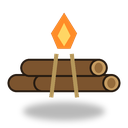
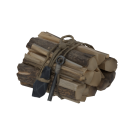
Improve campfire placement and restore player facing

diff --git a/client/src/lib/components/PlayerControl.svelte b/client/src/lib/components/PlayerControl.svelte
@@ -433,14 +433,28 @@
   }
 
   gameStore.subscribe((state) => {
+    const previousPlayerId = currentPlayer?.id ?? null
     currentPlayer = state.currentPlayer
-    if (currentPlayer) {
-      playerState.position = {
-        x: currentPlayer.position.x,
-        y: currentPlayer.position.y,
-        z: currentPlayer.position.z,
-      }
+    if (!currentPlayer) return
+
+    const position = {
+      x: currentPlayer.position.x,
+      y: currentPlayer.position.y,
+      z: currentPlayer.position.z,
     }
+    if (currentPlayer.id === previousPlayerId) {
+      playerState.position = position
+      return
+    }
+
+    playerRotation = currentPlayer.rotation
+    currentSpeed = 0
+    setPlayerState({
+      state: currentPlayer.health > 0 ? 'idle' : 'dead',
+      speed: 0,
+      rotation: currentPlayer.rotation,
+      position,
+    })
   })
 
   // Update player state and notify parent

diff --git a/server/src/game_state/inventory.rs b/server/src/game_state/inventory.rs
@@ -14,6 +14,8 @@ const GROUND_ITEM_LIFETIME_MS: u64 = 5 * 60 * 1000;
 
 const MAX_PICKUP_DISTANCE: f32 = 2.5;
 
+const CAMPFIRE_PLACEMENT_DISTANCE_M: f32 = 1.0;
+
 /// Enchant odds are expressed in basis points (1/100 of a percent) out of
 /// this scale; the handler's roll must use the same bound.
 const ENCHANT_BP_SCALE: u32 = 10_000;
@@ -623,8 +625,7 @@ impl super::GameState {
         }
     }
 
-    /// Use a campfire kit: light a fire at the player's feet. Overworld only,
-    /// and never in standing water (fishable depth = water).
+    /// Use a campfire kit outdoors and out of standing water.
     async fn use_campfire_kit(&self, player_id: &PlayerId, instance_id: u64) {
         if self
             .reject_if_defeated(player_id, "You can't build a fire while defeated")
@@ -632,21 +633,39 @@ impl super::GameState {
         {
             return;
         }
-        let (position, floor_level) = {
+        let (position, rotation, floor_level) = {
             let players = self.players.read().await;
             let Some(p) = players.get(player_id) else {
                 return;
             };
-            (p.position, p.floor_level)
+            (p.position, p.rotation, p.floor_level)
         };
         if floor_level != super::fishing::OVERWORLD_FLOOR {
             self.send_system_message(player_id, "You can only build a campfire outdoors")
                 .await;
             return;
         }
-        let wx = onlinerpg_shared::wrap_world_x(position.x);
+        let forward = crate::types::Position {
+            x: position.x + rotation.sin() * CAMPFIRE_PLACEMENT_DISTANCE_M,
+            y: position.y,
+            z: position.z + rotation.cos() * CAMPFIRE_PLACEMENT_DISTANCE_M,
+        };
+        let placement = {
+            let cache = self.passability_read();
+            let floor = super::passability::authoritative_floor(&cache, &position);
+            if super::passability::wrapped_block_info(
+                &cache, position.x, position.z, forward.x, forward.z, floor, position.y,
+            )
+            .is_some()
+            {
+                position
+            } else {
+                forward.wrapped_x()
+            }
+        };
+        let wx = onlinerpg_shared::wrap_world_x(placement.x);
         let in_water = self
-            .water_depth_at(wx, position.z)
+            .water_depth_at(wx, placement.z)
             .await
             .is_some_and(|depth| depth > onlinerpg_shared::fishing::MIN_FISHABLE_DEPTH_M);
         if in_water {
@@ -656,7 +675,7 @@ impl super::GameState {
         }
 
         self.consume_one_and_sync(player_id, instance_id).await;
-        self.spawn_campfire(position, floor_level).await;
+        self.spawn_campfire(placement, floor_level).await;
         self.send_system_message(player_id, "You light a campfire.")
             .await;
     }

diff --git a/server/src/game_state/tests/hunger_tests.rs b/server/src/game_state/tests/hunger_tests.rs
@@ -344,11 +344,51 @@ async fn using_a_campfire_kit_lights_a_fire_on_land() {
 
     game_state.use_item(&id, 1).await;
 
-    assert_eq!(game_state.campfires.read().await.len(), 1);
+    let position = {
+        let campfires = game_state.campfires.read().await;
+        assert_eq!(campfires.len(), 1);
+        campfires.values().next().unwrap().campfire.position
+    };
+    assert_eq!(
+        position,
+        Position {
+            x: 100.0,
+            y: 0.0,
+            z: 51.0,
+        }
+    );
     assert!(bag_ids(&game_state, &id).await.is_empty(), "kit consumed");
     assert!(drain(&mut rx)
         .iter()
         .any(|m| matches!(m, ServerMessage::CampfireSpawned { .. })));
+}
+
+#[tokio::test]
+async fn campfire_placement_falls_back_to_the_player_when_blocked() {
+    let game_state = make_test_game_state("kit_blocked");
+    let (id, _rx) = make_eater(&game_state, "blocked_scout", 500).await;
+    put_in_bag(&game_state, &id, 1, "campfire_kit").await;
+    game_state.sync_region_furniture(0, 0, &[table_placement(100.5, 51.5)]);
+
+    game_state.use_item(&id, 1).await;
+
+    let position = game_state
+        .campfires
+        .read()
+        .await
+        .values()
+        .next()
+        .unwrap()
+        .campfire
+        .position;
+    assert_eq!(
+        position,
+        Position {
+            x: 100.0,
+            y: 0.0,
+            z: 50.0,
+        }
+    );
 }
 
 #[tokio::test]

diff --git a/server/src/game_state/hunger.rs b/server/src/game_state/hunger.rs
@@ -255,7 +255,7 @@ impl super::GameState {
             .map(|(id, _)| id)
     }
 
-    /// Light a campfire at the player's feet and announce it to the area.
+    /// Light a campfire and announce it to the area.
     pub(super) async fn spawn_campfire(&self, position: Position, floor_level: i8) -> Campfire {
         let id = self.next_instance_id().await;
         let campfire = Campfire {

diff --git a/server/src/item_defs.rs b/server/src/item_defs.rs
@@ -89,7 +89,7 @@ pub enum UseEffect {
         heal_dice: Option<String>,
         raw_fish: bool,
     },
-    /// Light a campfire where the user stands.
+    /// Light a campfire near the user.
     PlaceCampfire,
     /// Teleport the user back to the town spawn point.
     TeleportTown,

diff --git a/doc/assets/items.md b/doc/assets/items.md
@@ -44,5 +44,6 @@
 - Fishing icons (10): fishing_rod.png, raw_minnow.png, raw_perch.png, raw_trout.png, river_salmon.png, golden_sturgeon.png, old_boot.png, clump_of_kelp.png, message_in_a_bottle.png, sunken_coin_pouch.png — ChatGPT image generation (2026-07-25, contributor-owned account), concept renders cut to 128×128 transparent icons
     - 원화: [rod](../images/fishing_rod.png) · [minnow](../images/raw_minnow.png) · [perch](../images/raw_perch.png) · [trout](../images/raw_trout.png) · [salmon](../images/river_salmon.png) · [sturgeon](../images/golden_sturgeon.png) · [boot](../images/old_boot.png) · [kelp](../images/clump_of_kelp.png) · [bottle](../images/message_in_a_bottle.png) · [pouch](../images/sunken_coin_pouch.png)
 - scroll_of_party_summon.png — scroll_of_return.png의 hue-rotation 파생 (스크립트, 2026-07-31): 붉은 봉인·장식 → 보라. 3D는 기존 scroll.glb 재사용
-- Hunger icons (10): apple.png, bread.png, cheese.png, jerky.png, grilled_minnow.png, grilled_perch.png, grilled_trout.png, grilled_salmon.png, grilled_sturgeon.png, campfire_kit.png — 자체 제작 프로시저럴 플레이스홀더 (PIL 스크립트, 2026-08-02, 512² 드로잉→128² 다운스케일, 라이선스 문제 없음). 기존 ChatGPT 아이콘 스타일과 다르므로 추후 AI 아이콘으로 교체 예정
-- **[미사용]** 모닥불 절차적 지오메트리(통나무 실린더 + 돌 + 불씨 구) — `campfire.glb`로 교체. 불꽃은 `fire-particles.ts`의 `CampfireFireParticles`(횃불 파티클 파생, 자체 제작) 유지
+- Hunger icons (9): apple.png, bread.png, cheese.png, jerky.png, grilled_minnow.png, grilled_perch.png, grilled_trout.png, grilled_salmon.png, grilled_sturgeon.png — 자체 제작 프로시저럴 플레이스홀더 (PIL 스크립트, 2026-08-02, 512² 드로잉→128² 다운스케일, 라이선스 문제 없음). 기존 ChatGPT 아이콘 스타일과 다르므로 추후 AI 아이콘으로 교체 예정
+- campfire_kit.glb — Meshy.ai (유료 생성, 2026-08-03, "Firewood Bundle"). 완전 소유권·상업 OK (characters.md License 참조). FBX를 Blender로 임포트해 0.45배 스케일 적용(장작 길이 0.45m, 0.45×0.45×0.30m 눕힌 자세), 원점=바닥 중심, 텍스처 512²로 축소, 검은 emissive 제거. 아이콘 campfire_kit.png는 Cycles 직교 측면·위 각도 렌더 512²→128², 2026-08-02 프로시저럴 플레이스홀더를 교체 (2026-08-03)
+    - 원화는 ChatGPT 이미지 생성 (ChatGPT Pro 20x, 2026-08-03) ![원화](../images/campfire_kit.png)
